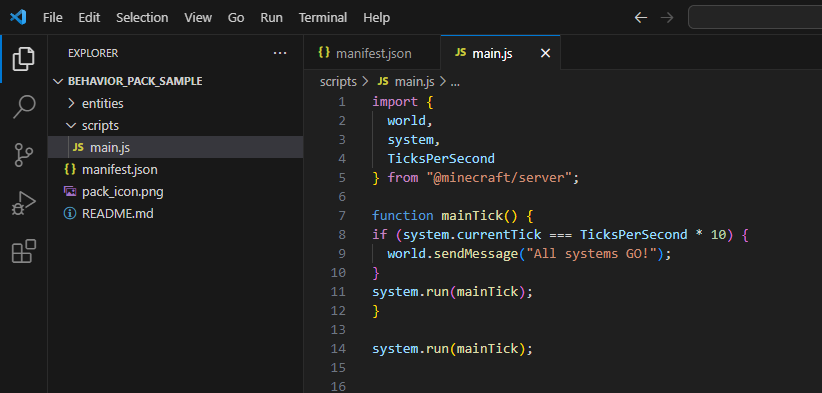
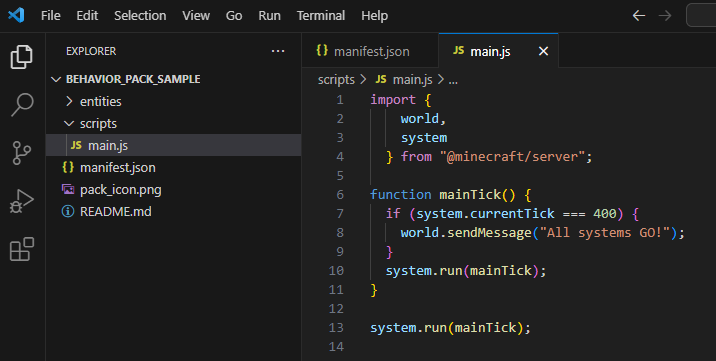
scripting edits
Removes TicksPerSecond

diff --git a/creator/Documents/ScriptingIntroduction.md b/creator/Documents/ScriptingIntroduction.md
@@ -110,12 +110,11 @@ To get there, we are going to start with the Attack Cow behavior pack, add the f
 ```javascript
 import {
     world,
-    system,
-    TicksPerSecond
+    system
   } from "@minecraft/server";
 
 function mainTick() {
-  if (system.currentTick === TicksPerSecond * 10) {
+  if (system.currentTick === 400) {
     world.sendMessage("All systems GO!");
   }
   system.run(mainTick);
@@ -130,7 +129,7 @@ When you're done, it should look like this:
 
 ![Image of a main.js file with the javascript example code in it](Media/ScriptingIntroduction/main_js_BP.png)
 
-10. Go back to Minecraft, create a world with the behavior pack activated. When you go into the world, your test message will appear after about 10 seconds.
+10. Go back to Minecraft, create a world with the behavior pack activated. When you go into the world, your test message will appear after about 20 seconds.
 
 ![Image of Minecraft world with "All Systems Go!" message displayed successfully](Media/ScriptingIntroduction/all_systems_go_message_success.png)
 
@@ -140,9 +139,9 @@ That proves your script is working. Neat!
 
 For this particular script that we just tried, you must create a new world if you want to update the message in **"world.sendMessage"** and check that it has updated.
 
-Hot reloading (using the **/reload** command) will NOT cause an updated message to display if the original message was displayed before your update, because the 200th tick (meaning the 10th second of the world existing) has already passed, and this line of the code specifically wants that particular tick:
+Hot reloading (using the **/reload** command) will NOT cause an updated message to display if the original message was displayed before your update, because the 400th tick (meaning the 20th second of the world existing) has already passed, and this line of the code specifically wants that particular tick:
 
-`if (system.currentTick === TicksPerSecond * 10) {`
+`if (system.currentTick === 400) {`
 
 Don't worry, we'll cover **/reload** later in this tutorial.
 
@@ -177,19 +176,15 @@ We also have the same line at the end of the **mainTick** function itself. This 
 
 The contents of the `mainTick` function start with this line:
 
-`if (system.currentTick === TicksPerSecond * 10)`
+`if (system.currentTick === 400)`
 
-This statement is checking if we are currently on the 200th tick. If we are on the 200th tick, then this statement is true and the code inside the `if` statement's curly braces will be executed:
+This statement is checking if we are currently on the 400th tick. If we are on the 400th tick, then this statement is true and the code inside the `if` statement's curly braces will be executed:
 
 `world.sendMessage("All systems GO!");`
 
 Otherwise, the code inside the `if` statement's curly braces will be skipped. Lastly, despite whether the `if` statement were true or false, `system.run(mainTick)` will be called again, to check again the next tick.
 
-As mentioned earlier, 20 ticks equals 1 second in Minecraft. So the constant that we are using from the `@minecraft/server` module, **TicksPerSecond**, equals 20.
-When we multiply it by a number (let's call it "x") we end up with the number of ticks that is equal to x seconds.
-Therefore, if the value we check in the `system.currentTick === TicksPerSecond * 10` line of code is 200 ticks, and 200 ticks is the same at 10 seconds, then we are telling the code to wait 10 seconds from the start of world load to display the message.
-
-If your computer takes longer than 10 seconds to load the world, then this message will not get displayed unless you change the "x" value from 10 to something bigger. This is something to keep in mind as a creator! You do not want any world setup code to run before your world is even loaded!
+As mentioned earlier, 20 ticks equals 1 second in Minecraft. If your computer takes longer than 20 seconds to load the world, then this message will not get displayed unless you change the currentTick value from 400 to something greater. This is something to keep in mind as a creator! You do not want any world setup code to run before your world is even loaded!
 
 Anyway, when we load our world with this script in it, that statement is false for a while.
 
@@ -198,22 +193,24 @@ This continues looping until it finally IS lunchtime, so you get to go have lunc
 
 ## What is Hot Reloading?
 
-As alluded to above, hot reloading is a super cool feature of scripting in Minecraft. Instead of having to close the game and reopen it in order to reload your script, hot reloading allows you to reload your script while you are inside your world and the game is still running, and your game will be updated to use the latest version of your script. You will find that this will drastically reduce your game development time because you will be able to test your changes almost instantly.
+As alluded to previously, hot reloading is a super cool feature of scripting in Minecraft. Instead of having to close the game and reopen it in order to reload your script, hot reloading allows you to reload your script while you are inside your world and the game is still running, and your game will be updated to use the latest version of your script. You will find that this will drastically reduce your game development time because you will be able to test your changes almost instantly.
 
 Let's try it! But first, we'll need to make one change to our current code to make it work with hot reloading.
 
 1. Open **main.js**.
 2. Change this line of code:
 
-`if (system.currentTick === TicksPerSecond * 10)`
+`if (system.currentTick === 400)`
 
 ...to this, instead:
 
-`if (system.currentTick % (TicksPerSecond * 10) === 0)`
+`if (system.currentTick % 200 === 0)`
 
 The "%" is known as the **modulo operator**, and it is used to obtain the remainder of a division between two integers.
 
-So what we are now saying is "if the remainder of the current tick divided by 200 equals 0, then execute this code." In other words, "if the current tick is evenly divisible by 200, then execute this code." So this statement will now be true every 200 ticks, instead of being true solely on the 200th tick. 
+Also, we're changing the 400 to 200 so you have a shorter wait time.
+
+So what we are now saying is "if the remainder of the current tick divided by 200 equals 0, then execute this code." In other words, "if the current tick is evenly divisible by 200, then execute this code." So this statement will now be true every 200 ticks, instead of being true solely on the 400th tick. 
 
 Due to this change, our line of code within the `if` statement's brackets:
 
@@ -253,14 +250,13 @@ Next, we will implement a simple script that counts the seconds that pass from t
 ```javascript
 import {
     world,
-    system,
-    TicksPerSecond
+    system
   } from "@minecraft/server";
 
 let secondsPassed = 0;
 
 function mainTick() {
-  if (system.currentTick % TicksPerSecond === 0) {
+  if (system.currentTick % 20 === 0) {
     secondsPassed += 1;
     world.sendMessage("Seconds Passed: " + secondsPassed);
   }
@@ -318,12 +314,11 @@ Based on our description above of what we want our script to do, here is the ske
 ```javascript
 import {
     world,
-    system,
-    TicksPerSecond
+    system
   } from "@minecraft/server";
 
 function mainTick() {
-  if (system.currentTick % (TicksPerSecond * 10) === 0) {
+  if (system.currentTick % 20 === 0) {
     const playerDimension = getPlayerDimension();
     const playerLocation = getPlayerLocation();
     if (playerDimension !== undefined && playerLocation !== undefined) {
@@ -457,8 +452,7 @@ Here is how your whole script should look by the end (no pun intended):
 ```javascript
 import {
     world,
-    system,
-    TicksPerSecond
+    system
   } from "@minecraft/server";
 
 function getPlayer() {
@@ -487,7 +481,7 @@ function getPlayerLocation() {
 }
 
 function mainTick() {
-  if (system.currentTick % (TicksPerSecond * 10) === 0) {
+  if (system.currentTick % 20 === 0) {
     const playerDimension = getPlayerDimension();
     const playerLocation = getPlayerLocation();
     if (playerDimension !== undefined && playerLocation !== undefined) {
